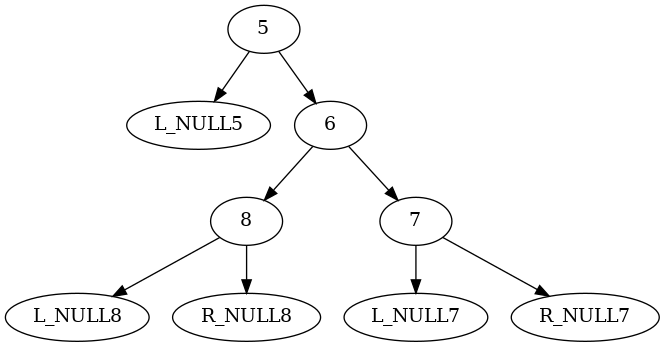
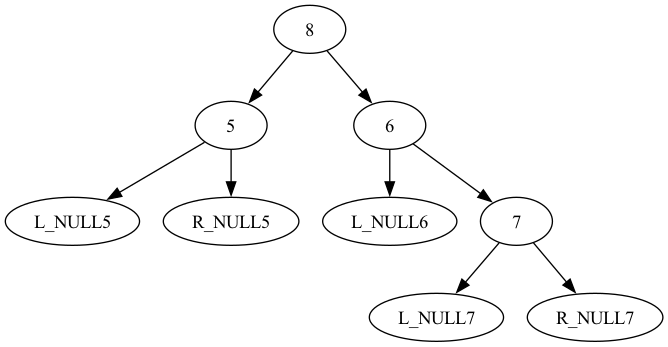
w

diff --git a/splay_tree/include/SplayTree.h b/splay_tree/include/SplayTree.h
@@ -3,6 +3,7 @@
 #include <fstream>
 
 
+
 #define UNREACHABLE std::cout << __FUNCTION__ << " " << __LINE__ << std::endl;\
                     throw std::runtime_error("Unreachable");
 
@@ -20,7 +21,7 @@ class Tree
   public:
     Node<T>* root_ = nullptr;
 
-    // std::pair(Node<T>*, Node<T>*) Split(T value);
+    std::pair<Node<T>*, Node<T>*> Split(T value);
 
     void Insert(T value)
     {
@@ -36,15 +37,14 @@ class Tree
 };
 
 
-// template <typename T>
-// std::pair(Node<T>*, Node<T>*) Tree<T>Split(T value);
-// {
-//     if (root_ == nullptr) {
-//         return std::pair(nullptr, nullptr);
-//     }
-
-    
-// }
+template <typename T>
+std::pair<Node<T>*, Node<T>*> Tree<T>::Split(T value)
+{
+    if (root_ == nullptr) {
+        return std::pair(nullptr, nullptr);
+    }
+    return std::pair(nullptr, nullptr);
+}
 
 
 template <typename T>
@@ -236,34 +236,34 @@ Node<T>* Node<T>::LeftRotate()
     return new_root;
 }
 
-
 template <typename T>
 Node<T>* Node<T>::RightRotate()
 {
-    if (predessor_node_ == nullptr) {
+    if (left_node_ == nullptr) {
         return this;
     }
 
-    predessor_node_->left_node_ = right_node_;
-    right_node_ = predessor_node_;
+    Node<T>* root_left_right = left_node_->right_node_;
+    Node<T>* new_root = left_node_;
 
-    Node<T>* g_node = predessor_node_->predessor_node_;
+    new_root->right_node_ = this;
 
-    if (g_node != nullptr) {
-        if (g_node->right_node_ == predessor_node_) {
-            g_node->right_node_ = this;
+    if (predessor_node_ != nullptr) {
+        if (predessor_node_->left_node_ == this) {
+            predessor_node_->left_node_ = new_root;
         }
         else {
-            g_node->left_node_ = this;
+            predessor_node_->right_node_ = new_root;
         }
     }
 
-    if (right_node_ != nullptr) {
-        right_node_->predessor_node_ = predessor_node_;
+    new_root->predessor_node_ = predessor_node_;
+    predessor_node_ = new_root;
+    left_node_ = root_left_right;
+
+    if (left_node_ != nullptr) {
+        left_node_->predessor_node_ = this;
     }
 
-    predessor_node_->predessor_node_ = this;
-    predessor_node_ = g_node;
-
-    return this;
+    return new_root;
 }

diff --git a/splay_tree/src/main.cpp b/splay_tree/src/main.cpp
@@ -11,7 +11,8 @@ int main() {
     Node<int> c(7, &a);
     Node<int> d(8, &b);
 
-    root = b.Splay();
+    // root = a.RightRotate();
+    root = d.Splay();
 
     std::ofstream out("/Users/alex_mac/Desktop/mipt/graph_algorithms/splay_tree/GV.txt");
     if (!out.is_open()) {
